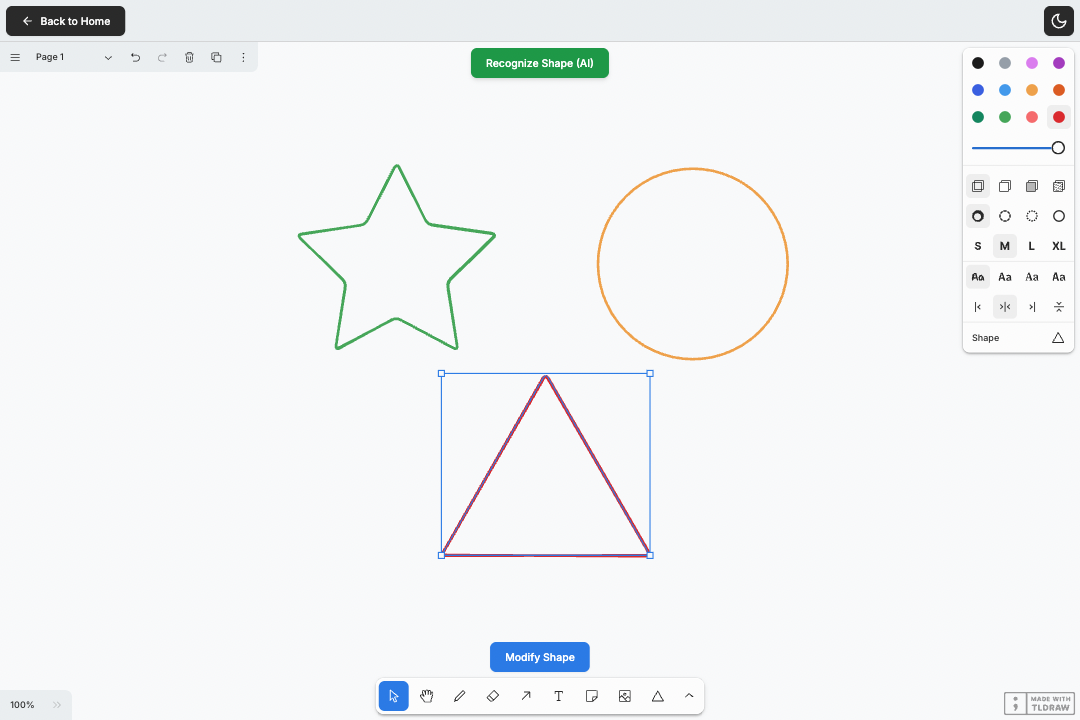
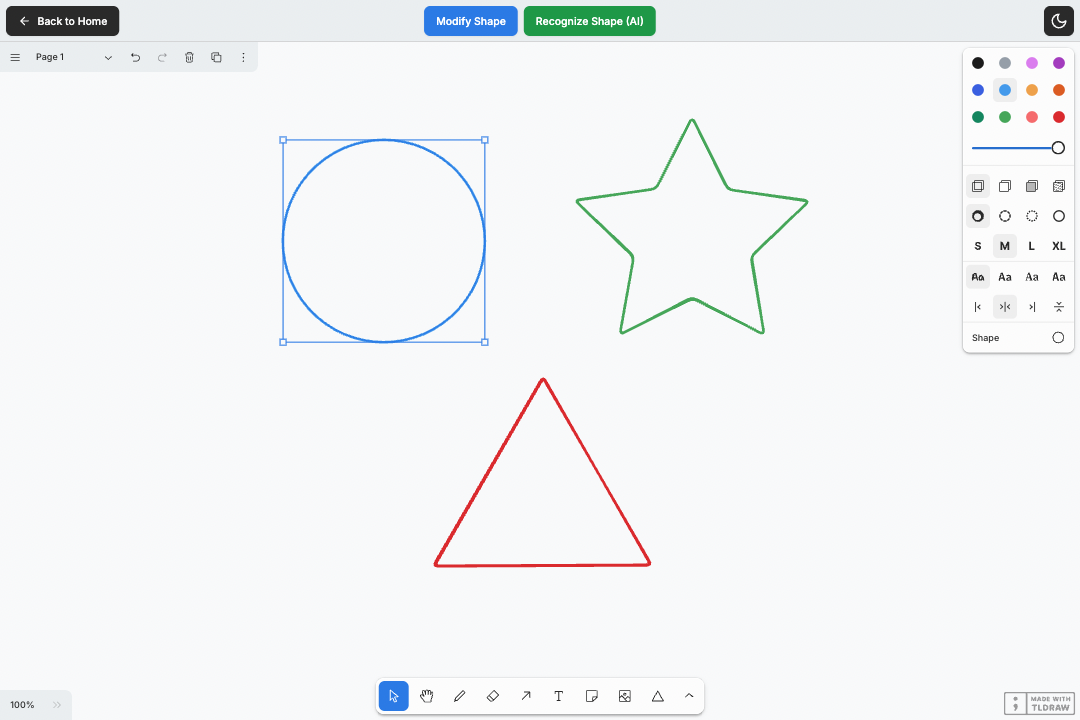
fix: buttons position

diff --git a/src/app/editor/page.tsx b/src/app/editor/page.tsx
@@ -9,6 +9,8 @@ import ThemeToggle from '@/components/ThemeToggle';
 import { Tldraw } from '@tldraw/tldraw';
 import '@tldraw/tldraw/tldraw.css';
 import { useTheme } from 'next-themes';
+import ModifyButton from '@/app/_components/ModifyButton';
+import RecognizeButton from '@/app/_components/RecognizeButton';
 
 export default function EditorPage() {
 	const { resolvedTheme, systemTheme } = useTheme();
@@ -32,21 +34,26 @@ export default function EditorPage() {
 	}, [resolvedTheme, systemTheme]);
 
 	return (
-		<div className='bg-light flex h-screen w-full flex-col dark:bg-dark-secondary'>
-			<Header>
-				<div className='mx-auto flex w-full items-center justify-between'>
-					<BackButton />
-					<ThemeToggle />
-				</div>
-			</Header>
+		<div className='bg-light relative flex h-screen w-full dark:bg-dark-secondary'>
+			<Tldraw className='pt-14'>
+				<Header classes='absolute top-0'>
+					<nav
+						aria-label='Editor navigation'
+						className='mx-auto flex w-full items-center justify-between'
+					>
+						<BackButton />
 
-			<main className='flex h-full w-full'>
-				<section className='relative flex-1'>
-					<Tldraw>
-						<EditorContent />
-					</Tldraw>
-				</section>
-			</main>
+						<div className='absolute right-2 top-16 flex flex-col-reverse gap-2 sm:right-1/2 sm:top-2 sm:translate-x-1/2 sm:flex-row'>
+							<ModifyButton />
+							<RecognizeButton />
+						</div>
+
+						<ThemeToggle />
+					</nav>
+				</Header>
+
+				<EditorContent />
+			</Tldraw>
 		</div>
 	);
 }

diff --git a/src/app/page.tsx b/src/app/page.tsx
@@ -10,7 +10,10 @@ export default function HomePage() {
 	return (
 		<div className='flex h-screen w-full flex-col'>
 			<Header>
-				<div className='container mx-auto flex items-center justify-between'>
+				<nav
+					aria-label='Main navigation'
+					className='container mx-auto flex items-center justify-between'
+				>
 					<Link href='/'>
 						<p className='text-3xl font-bold dark:text-gray-200'>Tldraw</p>
 					</Link>
@@ -18,7 +21,7 @@ export default function HomePage() {
 						<OpenButton />
 						<ThemeToggle />
 					</div>
-				</div>
+				</nav>
 			</Header>
 			<main className='flex h-full w-full items-start justify-center bg-white px-4 dark:bg-dark-secondary dark:text-white'>
 				<Hero />

diff --git a/src/app/_components/ModifyButton.tsx b/src/app/_components/ModifyButton.tsx
@@ -39,7 +39,7 @@ export default function ModifyButton() {
 	return (
 		<Button
 			onClick={modifyShape}
-			className='absolute bottom-auto right-2 top-14 z-10 translate-x-0 rounded-lg bg-blue-primary px-5 py-2 text-white shadow-sm transition hover:bg-blue-400 sm:bottom-102px sm:right-1/2 sm:top-auto sm:-translate-x-76px md-840:bottom-16 md-840:right-1/2 md-840:translate-x-1/2'
+			className='w-max-fit relative z-10 rounded-lg bg-blue-primary px-4 py-2 text-center text-white shadow-sm transition hover:bg-blue-400'
 			size={'lg'}
 		>
 			Modify Shape

diff --git a/src/app/_components/EditorContent.tsx b/src/app/_components/EditorContent.tsx
@@ -10,8 +10,6 @@ import { useTheme } from 'next-themes';
 import { api } from '../_utils/api';
 import Error from './Error';
 import Loading from './Loading';
-import ModifyButton from './ModifyButton';
-import RecognizeButton from './RecognizeButton';
 
 export default function EditorContent() {
 	const editor = useEditor();
@@ -73,11 +71,4 @@ export default function EditorContent() {
 
 	if (isLoading || !editor) return <Loading />;
 	if (isError) return <Error />;
-
-	return (
-		<>
-			<ModifyButton />
-			<RecognizeButton />
-		</>
-	);
 }

diff --git a/src/app/_components/RecognizeButton.tsx b/src/app/_components/RecognizeButton.tsx
@@ -26,7 +26,7 @@ export default function RecognizeButton() {
 		<Button
 			onClick={recognizeShape}
 			disabled={mutation.isLoading}
-			className='absolute right-2 top-2 z-10 translate-x-0 rounded-lg bg-green-600 px-5 py-2 text-white shadow-md transition hover:bg-green-500 sm:right-1/2 sm:translate-x-1/2'
+			className='relative z-10 w-44 rounded-lg bg-green-600 px-4 py-2 text-center text-white shadow-sm transition hover:bg-green-500'
 			size={'lg'}
 		>
 			{mutation.isLoading && <Loader2 className='mr-2 h-5 w-5 animate-spin' />}

diff --git a/src/app/_components/FeatureCard.tsx b/src/app/_components/FeatureCard.tsx
@@ -12,7 +12,7 @@ export default function FeatureCard({
 	return (
 		<div className='flex flex-col items-center rounded-lg bg-white p-6 shadow-lg dark:bg-gray-800'>
 			<div className='rounded-full bg-gray-primary p-3 dark:bg-gray-700'>{icon}</div>
-			<h3 className='mt-4 text-xl font-semibold dark:text-gray-200'>{title}</h3>
+			<h2 className='mt-4 text-xl font-semibold dark:text-gray-200'>{title}</h2>
 			<p className='mt-2 text-center text-sm text-gray-700 dark:text-gray-400'>{description}</p>
 		</div>
 	);

diff --git a/src/app/_components/OpenButton.tsx b/src/app/_components/OpenButton.tsx
@@ -8,7 +8,7 @@ export default function OpenButton() {
 	return (
 		<Link href='/editor' className='z-10 h-full max-w-fit'>
 			<Button
-				className='rounded-lg bg-gray-secondary px-5 py-2 shadow-sm hover:bg-gray-600 dark:bg-gray-700 dark:text-white dark:hover:bg-gray-500'
+				className='rounded-lg bg-gray-secondary px-4 py-2 shadow-sm hover:bg-gray-600 dark:bg-gray-700 dark:text-white dark:hover:bg-gray-500'
 				size='lg'
 			>
 				<ArrowRight size={18} />

diff --git a/src/app/_components/BackButton.tsx b/src/app/_components/BackButton.tsx
@@ -8,7 +8,7 @@ export default function BackButton() {
 	return (
 		<Link href='/' className='z-10 max-w-fit'>
 			<Button
-				className='rounded-lg bg-gray-secondary px-5 py-2 shadow-sm hover:bg-gray-600 dark:bg-gray-700 dark:text-white dark:hover:bg-gray-500'
+				className='rounded-lg bg-gray-secondary px-4 py-2 shadow-sm hover:bg-gray-600 dark:bg-gray-700 dark:text-white dark:hover:bg-gray-500'
 				size='lg'
 			>
 				<ArrowLeft size={18} />
